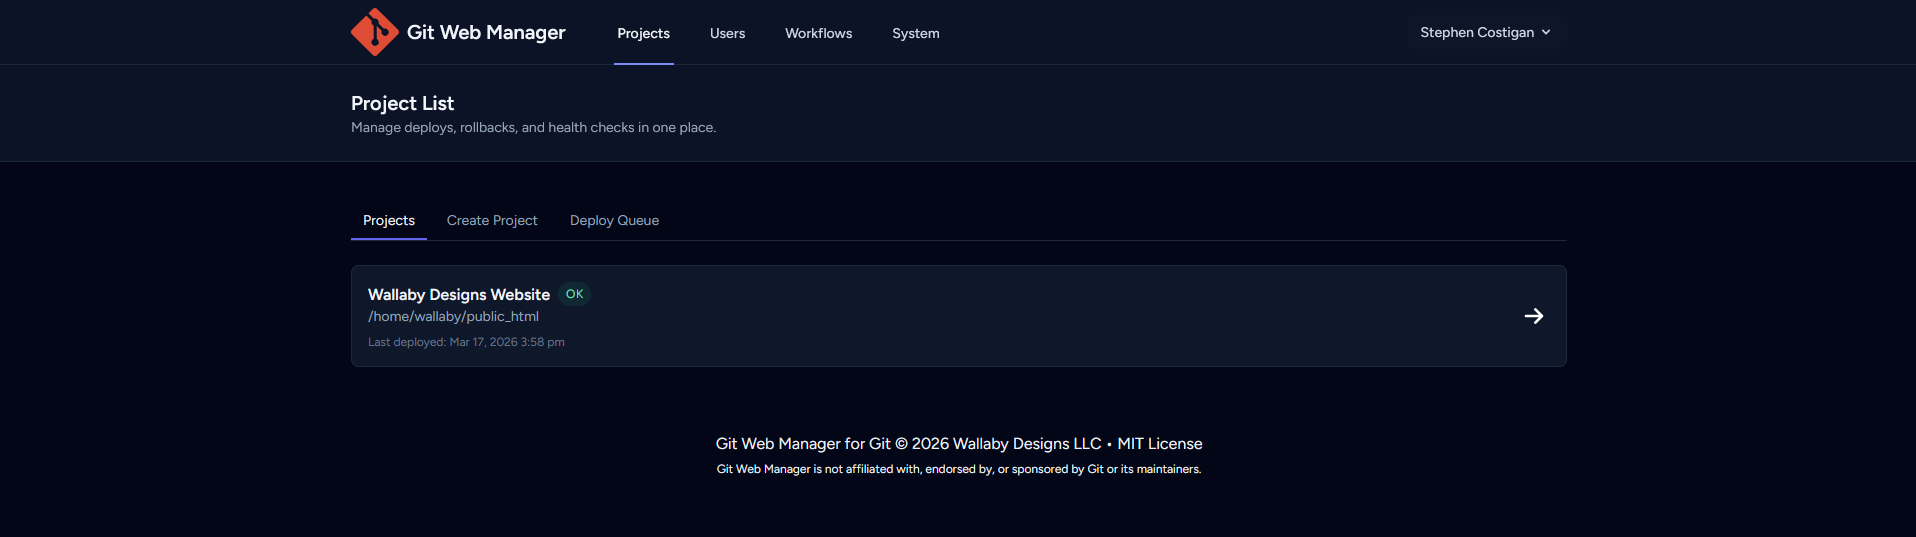
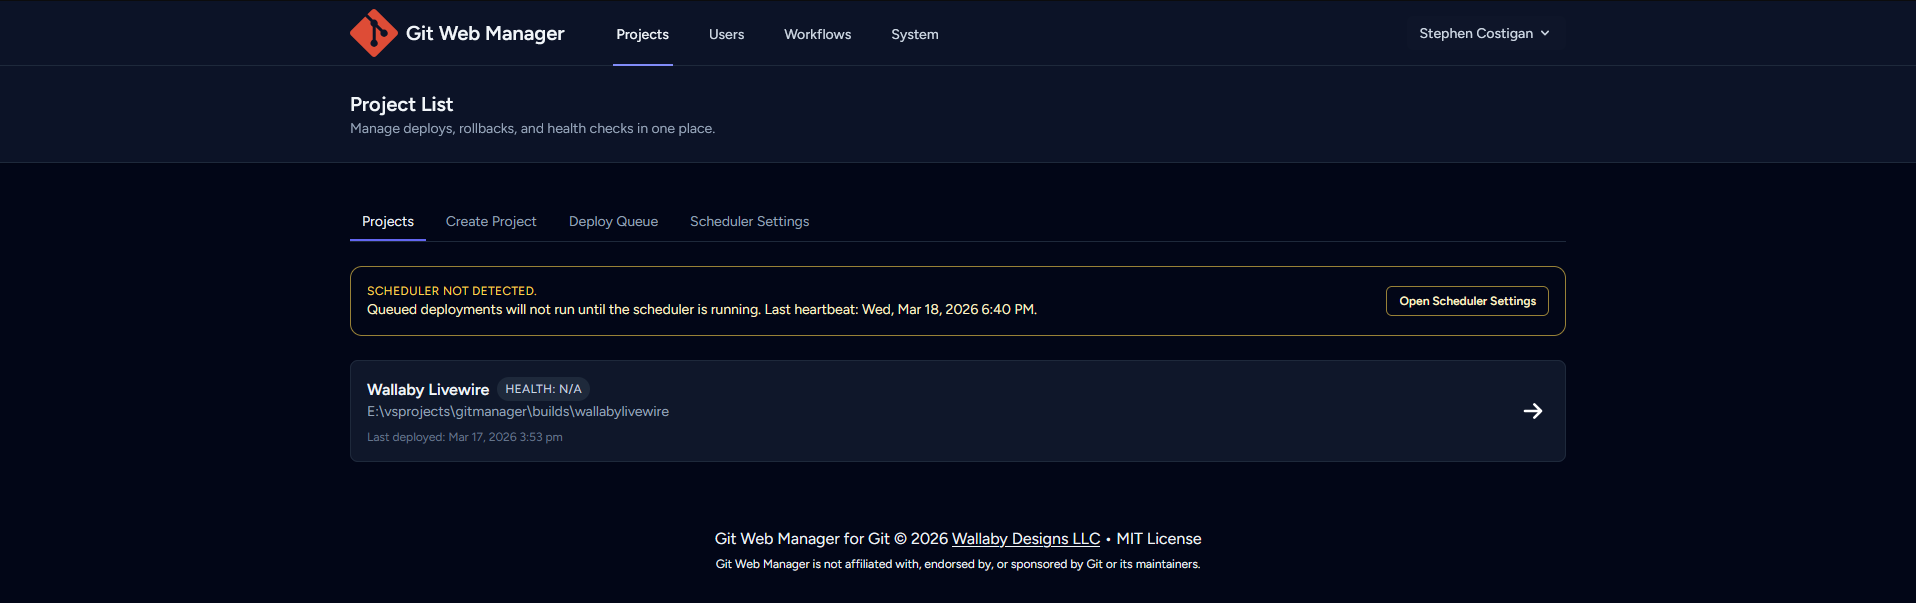
fixing scheduler with stronger heartbeat resolution for scheduler, updated cron, added log-based health checks to scheduler.

diff --git a/docs/scheduler.html b/docs/scheduler.html
@@ -60,9 +60,14 @@
       <section class="card">
         <h2>Cron Installation</h2>
         <p>Add the cron line shown on the Scheduler Settings page so Laravel's scheduler runs every minute:</p>
-        <pre><code>* * * * * cd /path/to/app &amp;&amp; /path/to/php artisan schedule:run &gt;&gt; /path/to/storage/logs/scheduler.log 2&gt;&amp;1</code></pre>
+        <pre><code>* * * * * cd /path/to/app &amp;&amp; /path/to/php artisan scheduler:run &gt;/dev/null 2&gt;&amp;1</code></pre>
         <p>The <strong>Install Cron</strong> button attempts to add this entry automatically on Linux hosts. On Windows, configure Task Scheduler instead.</p>
-        <p>If the heartbeat isn't updating, check <code>storage/logs/scheduler.log</code> for errors and verify <code>storage/logs/scheduler-heartbeat.json</code> is being updated.</p>
+        <p>If the heartbeat isn't updating, verify <code>storage/logs/scheduler-heartbeat.json</code> is being updated.</p>
+      </section>
+
+      <section class="card">
+        <h2>Scheduler Error Log</h2>
+        <p>Scheduler issues are stored in <code>storage/app/scheduler-errors.json</code> as JSON entries. When the same error repeats, the entry increments an <strong>Error Count</strong> instead of duplicating the log.</p>
       </section>
     </section>
   </main>

diff --git a/app/Services/SchedulerService.php b/app/Services/SchedulerService.php
@@ -3,6 +3,7 @@
 namespace App\Services;
 
 use Carbon\Carbon;
+use Illuminate\Support\Facades\Artisan;
 use Illuminate\Support\Facades\Cache;
 use Illuminate\Support\Str;
 use Symfony\Component\Process\Process;
@@ -70,11 +71,8 @@ class SchedulerService
         }
 
         $base = base_path();
-        $log = storage_path('logs/scheduler.log');
         $baseArg = escapeshellarg($base);
-        $logArg = escapeshellarg($log);
-
-        return '* * * * * cd '.$baseArg.' && '.$php.' artisan schedule:run >> '.$logArg.' 2>&1';
+        return '* * * * * cd '.$baseArg.' && '.$php.' artisan scheduler:run >/dev/null 2>&1';
     }
 
     public function installCron(): array
@@ -224,29 +222,7 @@ class SchedulerService
      */
     public function runScheduleNow(): array
     {
-        $php = trim((string) config('gitmanager.php_binary', 'php'));
-        $php = trim($php, "\"' ");
-        if ($php === '') {
-            $php = 'php';
-        }
-
-        $process = new Process([$php, base_path('artisan'), 'schedule:run']);
-        $process->setTimeout(600);
-        $process->run(null, $this->baseEnv());
-
-        if (! $process->isSuccessful()) {
-            return [
-                'success' => false,
-                'message' => 'Scheduler run failed.',
-                'output' => trim($process->getErrorOutput() ?: $process->getOutput()),
-            ];
-        }
-
-        return [
-            'success' => true,
-            'message' => 'Scheduler executed successfully.',
-            'output' => trim($process->getOutput()),
-        ];
+        return $this->runSchedulerOnce('manual');
     }
 
     private function baseEnv(): array
@@ -276,5 +252,139 @@ class SchedulerService
         }
 
         return $env;
+    }
+
+    /**
+     * @return array{success: bool, message: string, output?: string}
+     */
+    public function runSchedulerOnce(string $source = 'manual'): array
+    {
+        $exitCode = Artisan::call('schedule:run');
+        $output = trim(Artisan::output());
+
+        $hadIssue = $exitCode !== 0 || $this->outputHasFailure($output);
+        $this->recordHeartbeat($source);
+
+        if ($hadIssue) {
+            $summary = $this->summarizeIssue($output) ?: 'Scheduler reported a failure.';
+            $this->logSchedulerIssue($summary, $output);
+
+            return [
+                'success' => false,
+                'message' => 'Scheduler ran with issues.',
+                'output' => $output,
+            ];
+        }
+
+        return [
+            'success' => true,
+            'message' => 'Scheduler executed successfully.',
+            'output' => $output,
+        ];
+    }
+
+    /**
+     * @return array<int, array{message: string, count: int, first_seen: string, last_seen: string, output?: string}>
+     */
+    public function schedulerLogEntries(): array
+    {
+        $path = $this->schedulerLogPath();
+        if (! is_file($path)) {
+            return [];
+        }
+
+        $data = json_decode(file_get_contents($path) ?: '', true);
+        if (! is_array($data) || ! isset($data['entries']) || ! is_array($data['entries'])) {
+            return [];
+        }
+
+        return $data['entries'];
+    }
+
+    private function logSchedulerIssue(string $message, string $output = ''): void
+    {
+        $path = $this->schedulerLogPath();
+        $dir = dirname($path);
+        if (! is_dir($dir)) {
+            @mkdir($dir, 0775, true);
+        }
+
+        $data = [];
+        if (is_file($path)) {
+            $decoded = json_decode(file_get_contents($path) ?: '', true);
+            if (is_array($decoded)) {
+                $data = $decoded;
+            }
+        }
+
+        $entries = $data['entries'] ?? [];
+        $entries = is_array($entries) ? $entries : [];
+        $now = now()->toDateTimeString();
+
+        if (! empty($entries) && ($entries[0]['message'] ?? '') === $message) {
+            $entries[0]['count'] = (int) ($entries[0]['count'] ?? 1) + 1;
+            $entries[0]['last_seen'] = $now;
+            if ($output !== '') {
+                $entries[0]['output'] = $this->trimOutput($output);
+            }
+        } else {
+            array_unshift($entries, [
+                'message' => $message,
+                'count' => 1,
+                'first_seen' => $now,
+                'last_seen' => $now,
+                'output' => $output !== '' ? $this->trimOutput($output) : null,
+            ]);
+        }
+
+        $entries = array_slice($entries, 0, 25);
+
+        $payload = [
+            'updated_at' => $now,
+            'entries' => $entries,
+        ];
+
+        @file_put_contents($path, json_encode($payload, JSON_PRETTY_PRINT));
+        @chmod($path, 0664);
+    }
+
+    private function outputHasFailure(string $output): bool
+    {
+        if ($output === '') {
+            return false;
+        }
+
+        return (bool) preg_match('/\bFAIL\b|\bERROR\b|\bEXCEPTION\b/i', $output);
+    }
+
+    private function summarizeIssue(string $output): string
+    {
+        if ($output === '') {
+            return '';
+        }
+
+        $lines = array_values(array_filter(array_map('trim', preg_split('/\r\n|\r|\n/', $output) ?: [])));
+        foreach ($lines as $line) {
+            if (preg_match('/\bFAIL\b|\bERROR\b|\bEXCEPTION\b/i', $line)) {
+                return $line;
+            }
+        }
+
+        return $lines[0] ?? '';
+    }
+
+    private function trimOutput(string $output): string
+    {
+        $output = trim($output);
+        if (mb_strlen($output) <= 2000) {
+            return $output;
+        }
+
+        return mb_substr($output, 0, 2000).'…';
+    }
+
+    private function schedulerLogPath(): string
+    {
+        return storage_path('app/scheduler-errors.json');
     }
 }

diff --git a/resources/views/livewire/projects/scheduler.blade.php b/resources/views/livewire/projects/scheduler.blade.php
@@ -77,5 +77,41 @@
                 If automatic install fails, add the cron line manually or configure a Task Scheduler entry on Windows.
             </p>
         </div>
+
+        <div class="rounded-lg border border-slate-200/70 dark:border-slate-800 bg-slate-50/60 dark:bg-slate-900/60 p-6 space-y-4">
+            <div>
+                <h3 class="text-sm font-semibold text-slate-900 dark:text-slate-100">Scheduler Error Log</h3>
+                <p class="text-sm text-slate-600 dark:text-slate-300">
+                    Entries are recorded only when the scheduler reports an issue. Repeated errors increase the count.
+                </p>
+            </div>
+
+            @if (empty($schedulerLog))
+                <div class="text-sm text-slate-500 dark:text-slate-400">
+                    No scheduler errors recorded yet.
+                </div>
+            @else
+                <div class="space-y-3">
+                    @foreach ($schedulerLog as $entry)
+                        <div class="rounded-md border border-slate-200 dark:border-slate-800 bg-white/70 dark:bg-slate-950/40 p-4">
+                            <div class="flex flex-wrap items-center justify-between gap-2">
+                                <div class="text-sm font-semibold text-slate-900 dark:text-slate-100">
+                                    {{ $entry['message'] ?? 'Scheduler error' }}
+                                </div>
+                                <div class="text-xs uppercase tracking-wide text-slate-500 dark:text-slate-400">
+                                    Error Count: {{ $entry['count'] ?? 1 }}
+                                </div>
+                            </div>
+                            <div class="mt-1 text-xs text-slate-500 dark:text-slate-400">
+                                First seen: {{ $entry['first_seen'] ?? 'Unknown' }} · Last seen: {{ $entry['last_seen'] ?? 'Unknown' }}
+                            </div>
+                            @if (! empty($entry['output']))
+                                <pre class="mt-3 max-h-48 overflow-auto rounded-md border border-slate-200/70 dark:border-slate-800 bg-slate-100/70 dark:bg-slate-900/60 p-3 text-xs text-slate-700 dark:text-slate-200 whitespace-pre-wrap">{{ $entry['output'] }}</pre>
+                            @endif
+                        </div>
+                    @endforeach
+                </div>
+            @endif
+        </div>
     </div>
 </div>

diff --git a/app/Console/Commands/SchedulerRun.php b/app/Console/Commands/SchedulerRun.php
@@ -1,0 +1,26 @@
+<?php
+
+namespace App\Console\Commands;
+
+use App\Services\SchedulerService;
+use Illuminate\Console\Command;
+
+class SchedulerRun extends Command
+{
+    protected $signature = 'scheduler:run';
+
+    protected $description = 'Run the Laravel scheduler and record heartbeat/logs.';
+
+    public function handle(SchedulerService $scheduler): int
+    {
+        $result = $scheduler->runSchedulerOnce('schedule');
+
+        if (! $result['success']) {
+            $this->error($result['message']);
+            return self::FAILURE;
+        }
+
+        $this->info($result['message']);
+        return self::SUCCESS;
+    }
+}

diff --git a/app/Livewire/Projects/Scheduler.php b/app/Livewire/Projects/Scheduler.php
@@ -64,6 +64,7 @@ class Scheduler extends Component
             'lastHeartbeat' => $scheduler->lastHeartbeat(),
             'lastManualRun' => $scheduler->lastManualRun(),
             'lastSource' => $scheduler->lastSource(),
+            'schedulerLog' => $scheduler->schedulerLogEntries(),
             'queueEnabled' => config('gitmanager.deploy_queue.enabled', true),
             'queueCount' => $queueCount,
             'cronCommand' => $scheduler->cronCommand(),
